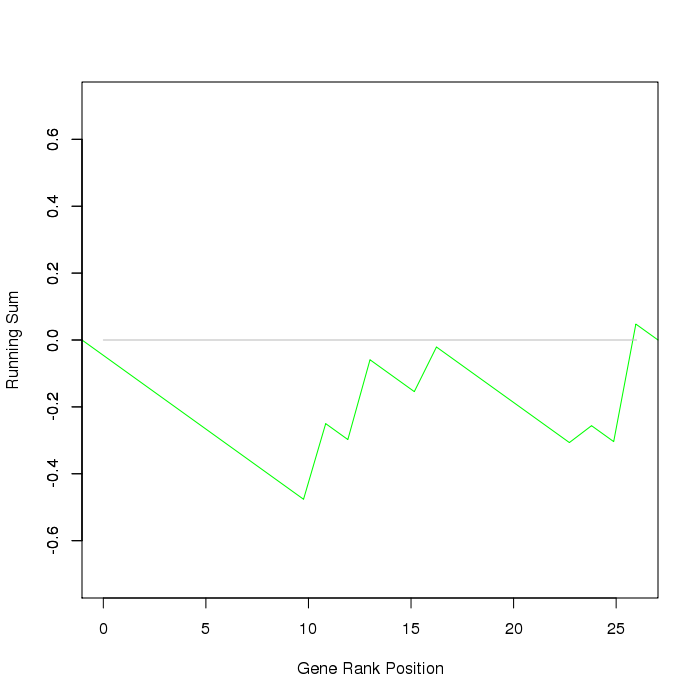
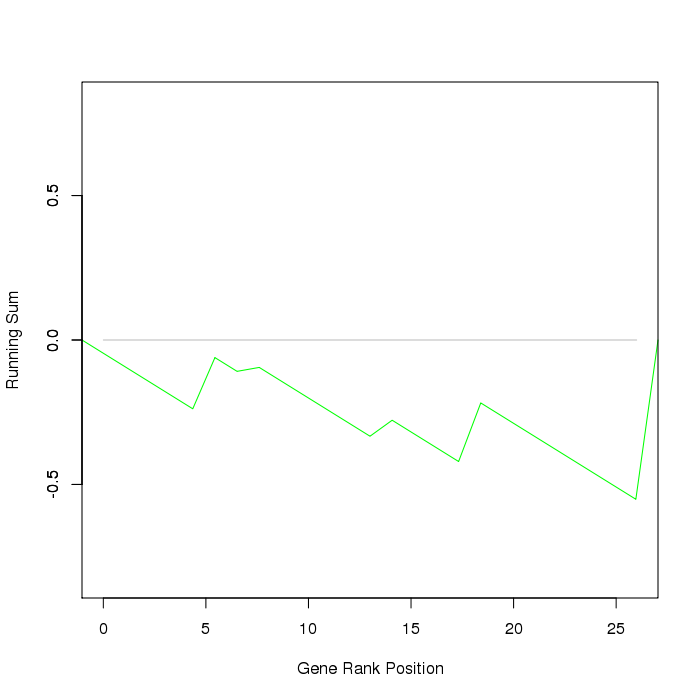
Re-ordering of the vector is necessary before running the method

diff --git a/README.md b/README.md
@@ -40,7 +40,7 @@ First load the `ksea` package.
 library("ksea")
 ```
 
-Next create some fake data. In one hand, we create a list named `regulons` containing a vector per kinase with the names of the known substrates. Secondly, we create a vector sites with quantifications for the sites going from A to Z.
+Next create some fake data. In one hand, we create a list named `regulons` containing a vector per kinase with the names of the known substrates. Secondly, we create a vector sites with quantifications for the sites going from A to Z. Finally, we sort the quantifications.
 
 
 ```r
@@ -50,28 +50,27 @@ regulons
 
 ```
 ## $kinaseA
-## [1] "W" "M" "K" "P" "Y"
+## [1] "A" "D" "B" "V" "S"
 ```
 
 ```r
 sites <- rnorm(length(LETTERS))
 names(sites) <- LETTERS
+sites <- sites[order(sites, decreasing=TRUE)]
 sites
 ```
 
 ```
-##            A            B            C            D            E 
-##  0.625324365 -0.577288591  0.008483193  0.009401793  0.184715982 
-##            F            G            H            I            J 
-##  0.904663114  0.339512278  1.460114804 -0.193408012 -0.044867689 
-##            K            L            M            N            O 
-##  0.756278462  1.551934349  0.798047060 -0.944701346 -0.150922121 
-##            P            Q            R            S            T 
-##  0.446089149 -0.189256209 -0.492199379  0.096011965 -1.154183518 
-##            U            V            W            X            Y 
-## -2.163000945 -0.332748398  0.168692442 -0.049034005  1.175449545 
-##            Z 
-##  0.240151411
+##           Y           X           F           R           Q           V 
+##  1.55411311  1.26512010  0.99839814  0.67378413  0.60563440  0.60414623 
+##           Z           S           U           C           I           N 
+##  0.15636554  0.04641178 -0.04892578 -0.13266507 -0.13956017 -0.15427663 
+##           H           A           G           O           W           B 
+## -0.18234163 -0.18861177 -0.35305334 -0.54023780 -0.58719937 -0.69101295 
+##           T           L           M           E           J           K 
+## -0.81566846 -0.93211576 -1.10098003 -1.14605933 -1.18557350 -1.47770101 
+##           P           D 
+## -1.71075316 -1.87901257
 ```
 
 The function `ksea` will run the enrichment analysis for the provided quantifications and known kinase targets.
@@ -89,12 +88,12 @@ ksea_result
 
 ```
 ## $ES
-##          J 
-## -0.4761905 
+##          P 
+## -0.5511601 
 ## 
 ## $p.value
-##     J 
-## 0.241
+##     P 
+## 0.277
 ```
 
 The function `ksea_batchKinases` calculates the KSEA p-value for a list of kinases. To improve the performance of the function, it uses as many cores as possible using the `parallell` package.
@@ -108,13 +107,13 @@ regulons
 
 ```
 ## $kinaseA
-## [1] "W" "M" "K" "P" "Y"
+## [1] "A" "D" "B" "V" "S"
 ## 
 ## $kinaseB
-## [1] "S" "X" "T"
+## [1] "R" "L" "Q"
 ## 
 ## $kinaseC
-## [1] "E" "R" "U" "A" "O" "X" "H"
+## [1] "P" "A" "Z" "G" "Q" "C" "W"
 ```
 
 ```r
@@ -130,8 +129,8 @@ kinases_ksea
 ```
 
 ```
-## kinaseA.J kinaseB.R kinaseC.T 
-##     0.261     0.049     0.561
+## kinaseA.P kinaseB.Q kinaseC.K 
+##     0.301     0.291     0.459
 ```
 
 
